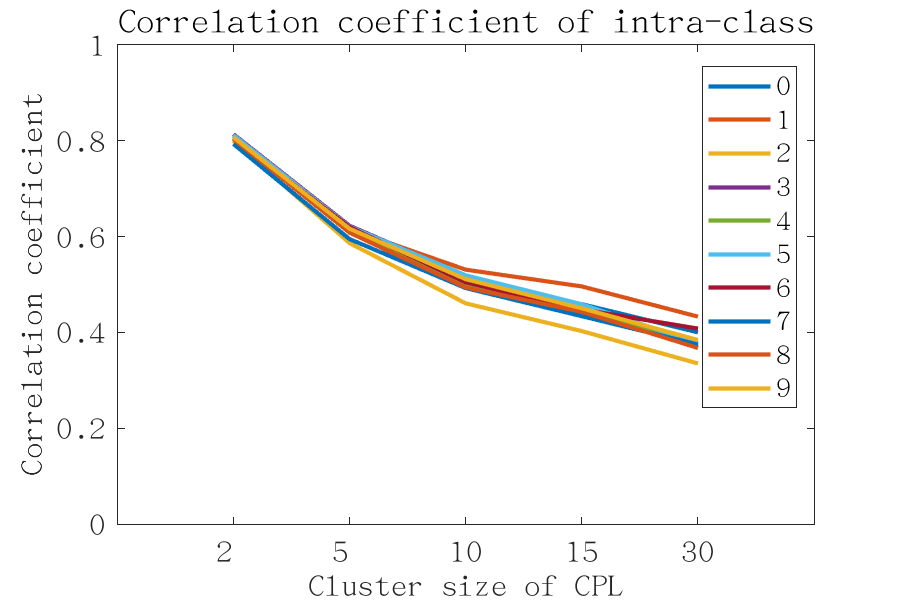
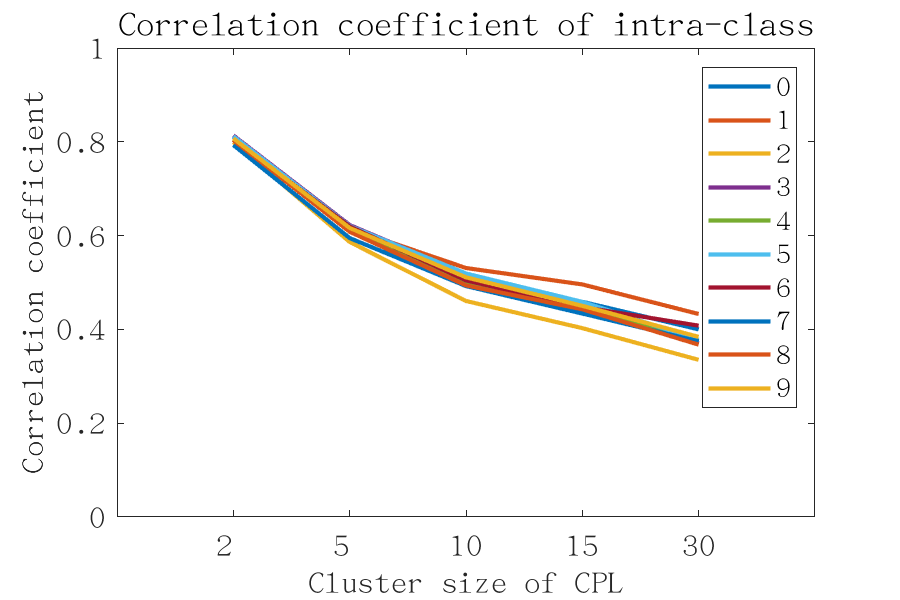
add

diff --git a/experiment/mnist/train_history/plot_size_other_corr.m b/experiment/mnist/train_history/plot_size_other_corr.m
@@ -34,7 +34,7 @@ for i=1:len
 end
 figure(1)
 fig_para = fig_paramter();
-plot(1:size(cluster_sizes,1),cos_sim_all,"-b","LineWidth",fig_para.linewidth)
+plot(1:size(cluster_sizes,1),cos_sim_all,"Color",fig_para.colors(1,:),"LineWidth",fig_para.linewidth)
 axis([0,6,0.6,1])
 set(gca,"XTick",1:size(cluster_sizes,1));
 set(gca,"XTickLabel",cluster_sizes);
